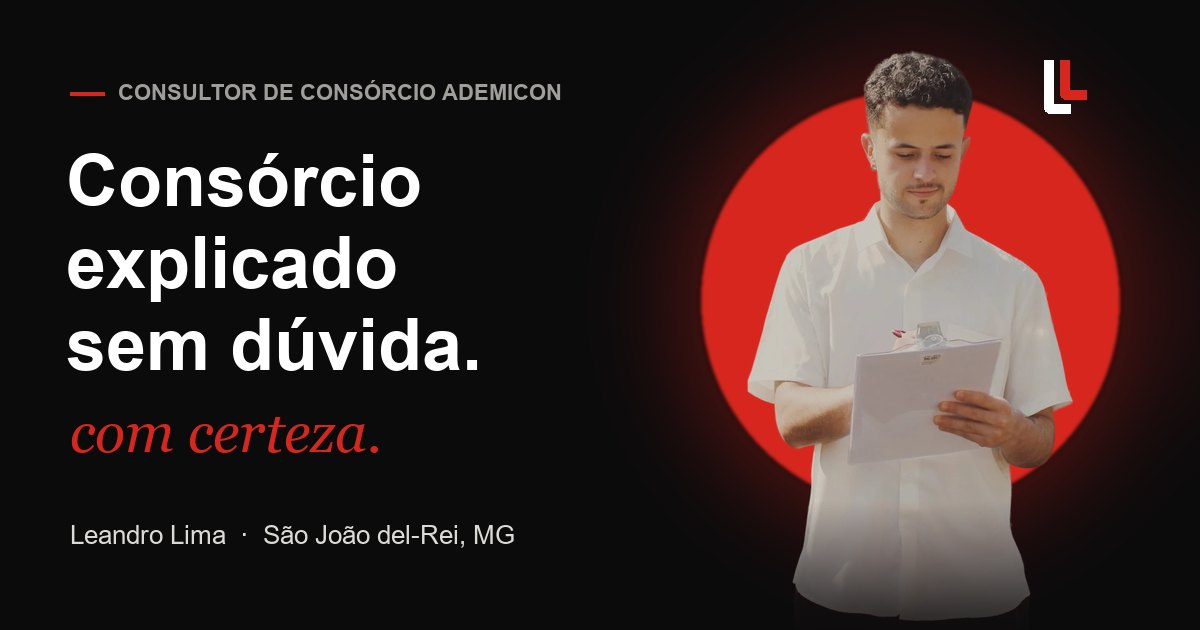
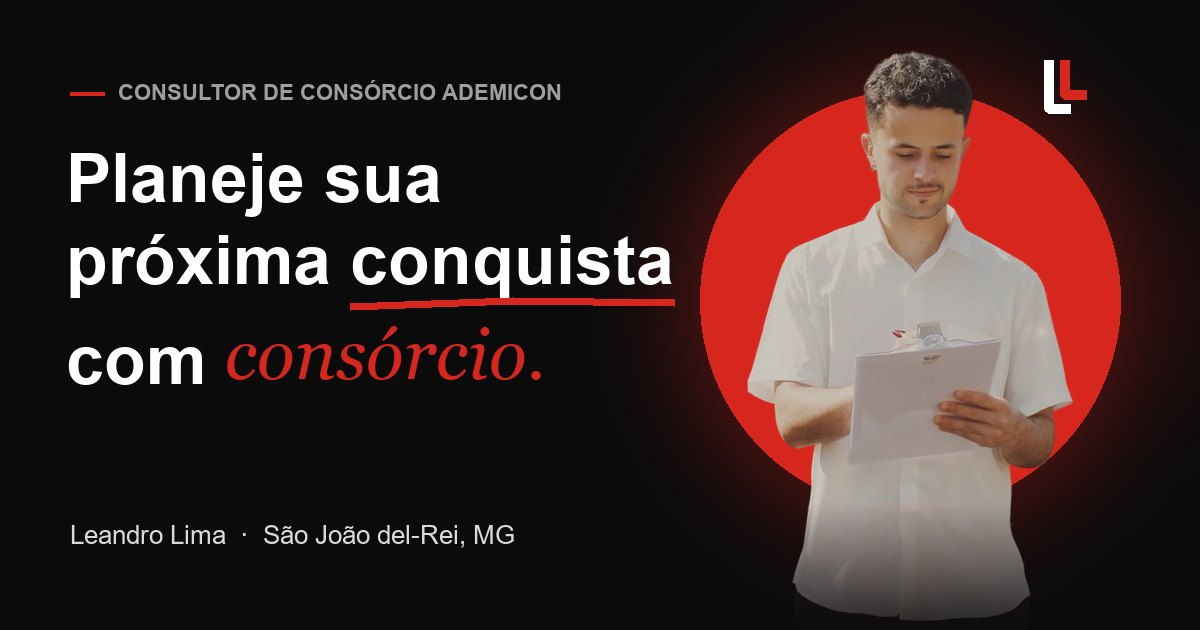
Nova headline: "Planeje sua próxima conquista com consórcio."
Sublinhado desenhado à mão em "conquista" no lugar do risco em
"dúvida"; atualiza títulos sociais e imagem de compartilhamento.

diff --git a/index.html b/index.html
@@ -18,14 +18,14 @@
 <meta property="og:locale" content="pt_BR">
 <meta property="og:site_name" content="Leandro Lima · Consultor Ademicon">
 <meta property="og:url" content="https://SEU-DOMINIO.com.br/">
-<meta property="og:title" content="Consórcio explicado sem dúvida | Leandro Lima, Consultor Ademicon">
+<meta property="og:title" content="Planeje sua próxima conquista com consórcio | Leandro Lima, Consultor Ademicon">
 <meta property="og:description" content="Entenda parcela, entrada, lance e contemplação antes de assinar. Atendimento didático e individual em São João del-Rei e online.">
 <meta property="og:image" content="https://SEU-DOMINIO.com.br/assets/og-image.jpg">
 <meta property="og:image:width" content="1200">
 <meta property="og:image:height" content="630">
 <meta property="og:image:alt" content="Leandro Lima, consultor de consórcio Ademicon">
 <meta name="twitter:card" content="summary_large_image">
-<meta name="twitter:title" content="Consórcio explicado sem dúvida | Leandro Lima, Consultor Ademicon">
+<meta name="twitter:title" content="Planeje sua próxima conquista com consórcio | Leandro Lima, Consultor Ademicon">
 <meta name="twitter:description" content="Entenda parcela, entrada, lance e contemplação antes de assinar.">
 <meta name="twitter:image" content="https://SEU-DOMINIO.com.br/assets/og-image.jpg">
 
@@ -373,13 +373,15 @@ section{position:relative}
 .hero-glow{position:absolute;width:70vw;height:70vw;max-width:1000px;max-height:1000px;right:-20vw;top:-10vw;background:radial-gradient(closest-side,rgba(215,38,30,.34),rgba(215,38,30,0));filter:blur(20px);pointer-events:none}
 .hero-grid{position:absolute;inset:0;background-image:linear-gradient(var(--line) 1px,transparent 1px),linear-gradient(90deg,var(--line) 1px,transparent 1px);background-size:88px 88px;mask-image:radial-gradient(ellipse at 30% 40%,#000 0%,transparent 70%);-webkit-mask-image:radial-gradient(ellipse at 30% 40%,#000 0%,transparent 70%);opacity:.5;pointer-events:none}
 .hero .wrap{display:grid;grid-template-columns:1.25fr .9fr;gap:clamp(30px,5vw,80px);align-items:center;position:relative}
-.hero h1{margin:26px 0 56px;font-size:clamp(44px,5.6vw,88px)}
+.hero h1{margin:26px 0 30px;font-size:clamp(44px,5.6vw,88px)}
 .line{display:block;overflow:hidden;padding-bottom:.06em}
 .line>span{display:inline-block}
 .swap{position:relative;display:inline-block;white-space:nowrap}
 .swap .from{position:relative;display:inline-block;color:#6d6b68}
 .swap .strike{position:absolute;left:-4%;top:52%;width:108%;height:.34em;overflow:visible;pointer-events:none}
 .swap .strike path{stroke:var(--red);stroke-width:9;fill:none;stroke-linecap:round;stroke-dasharray:500;stroke-dashoffset:500}
+.line-mark{padding-bottom:.2em}
+.swap.mark .strike{top:auto;bottom:-.16em;left:-2%;width:104%;height:.3em}
 .swap .to{position:absolute;left:38%;top:88%;white-space:nowrap;font-family:var(--serif);font-style:italic;font-weight:400;font-size:.62em;color:var(--red);letter-spacing:0;transform-origin:left bottom}
 .hero-actions{display:flex;flex-wrap:wrap;gap:14px;margin-top:38px}
 .hero-meta{display:flex;flex-wrap:wrap;gap:28px;margin-top:46px;padding-top:26px;border-top:1px solid var(--line)}
@@ -794,9 +796,9 @@ footer{background:var(--ink);padding:70px 0 34px;color:#a9a7a3;font-size:14px}
     <div class="hero-copy">
       <p class="eyebrow h-in">Consultor de consórcio Ademicon · São João del-Rei, MG</p>
       <h1 class="h-xl"><span class="sr-only">Leandro Lima, consultor de consórcio Ademicon: </span>
-        <span class="line"><span>Consórcio</span></span>
-        <span class="line"><span>explicado</span></span>
-        <span class="line" style="overflow:visible"><span>sem <span class="swap"><span class="from">dúvida</span><svg class="strike" viewBox="0 0 300 30" preserveAspectRatio="none" aria-hidden="true"><path d="M4 18 C 70 8, 150 24, 296 10"/></svg> <span class="to">com certeza.</span></span></span></span>
+        <span class="line"><span>Planeje sua</span></span>
+        <span class="line line-mark"><span>próxima <span class="swap mark">conquista<svg class="strike" viewBox="0 0 300 30" preserveAspectRatio="none" aria-hidden="true"><path d="M4 18 C 70 8, 150 24, 296 10"/></svg></span></span></span>
+        <span class="line"><span>com <span class="serif red">consórcio.</span></span></span>
       </h1>
       <p class="lede h-in">Sou Leandro Lima, consultor Ademicon em São João del-Rei. Eu ajudo você a avaliar <b style="color:#fff">crédito, parcelas e possibilidades de lance</b> com uma simulação alinhada ao seu objetivo. Antes de contratar, entenda os custos, os reajustes e as regras de contemplação, com exemplos aplicados ao seu caso.</p>
       <div class="hero-actions h-in">
@@ -1300,7 +1302,7 @@ const TESTIMONIALS = [];
     document.querySelectorAll(".manifesto .w").forEach(w => w.style.opacity = 1);
     
     document.querySelectorAll(".chip").forEach(c => { c.classList.add("done"); c.querySelector(".ic").textContent = "✓"; });
-    document.querySelector(".swap .strike path").style.strokeDashoffset = 0;
+    const sp = document.querySelector(".swap .strike path"); if (sp) sp.style.strokeDashoffset = 0;
     document.querySelectorAll(".step").forEach(s => s.classList.add("on"));
     document.querySelector(".steps-rail i").style.transform = "scaleY(1)";
     return;
@@ -1356,7 +1358,6 @@ const TESTIMONIALS = [];
   gsap.set(".figure-mono path", {strokeDasharray:200, strokeDashoffset:200});
   gsap.set(".portrait-tag", {opacity:0, x:30});
   gsap.set(".chip", {opacity:0, y:20, scale:.9});
-  gsap.set(".swap .to", {opacity:0, yPercent:40, rotate:-6});
 
   const tl = gsap.timeline({defaults:{ease:"expo.out"}});
   tl.to(".loader svg path", {strokeDashoffset:0, duration:1, ease:"power2.inOut", stagger:.15})
@@ -1372,7 +1373,6 @@ const TESTIMONIALS = [];
     .to(".portrait-tag", {opacity:1, x:0, duration:1}, "<.6")
     .to(".h-in", {y:0, opacity:1, duration:1, stagger:.08}, "<.1")
     .to(".swap .strike path", {strokeDashoffset:0, duration:.7, ease:"power2.inOut"}, "-=.4")
-    .to(".swap .to", {opacity:1, yPercent:0, rotate:-4, duration:.8, ease:"back.out(2)"}, "-=.2")
     .to(".chip", {opacity:1, y:0, scale:1, duration:.8, stagger:.15, ease:"back.out(1.6)"}, "-=.6")
     .add(() => {  // starts as soon as the chips land
       document.querySelectorAll(".chip").forEach((c,i) => {
